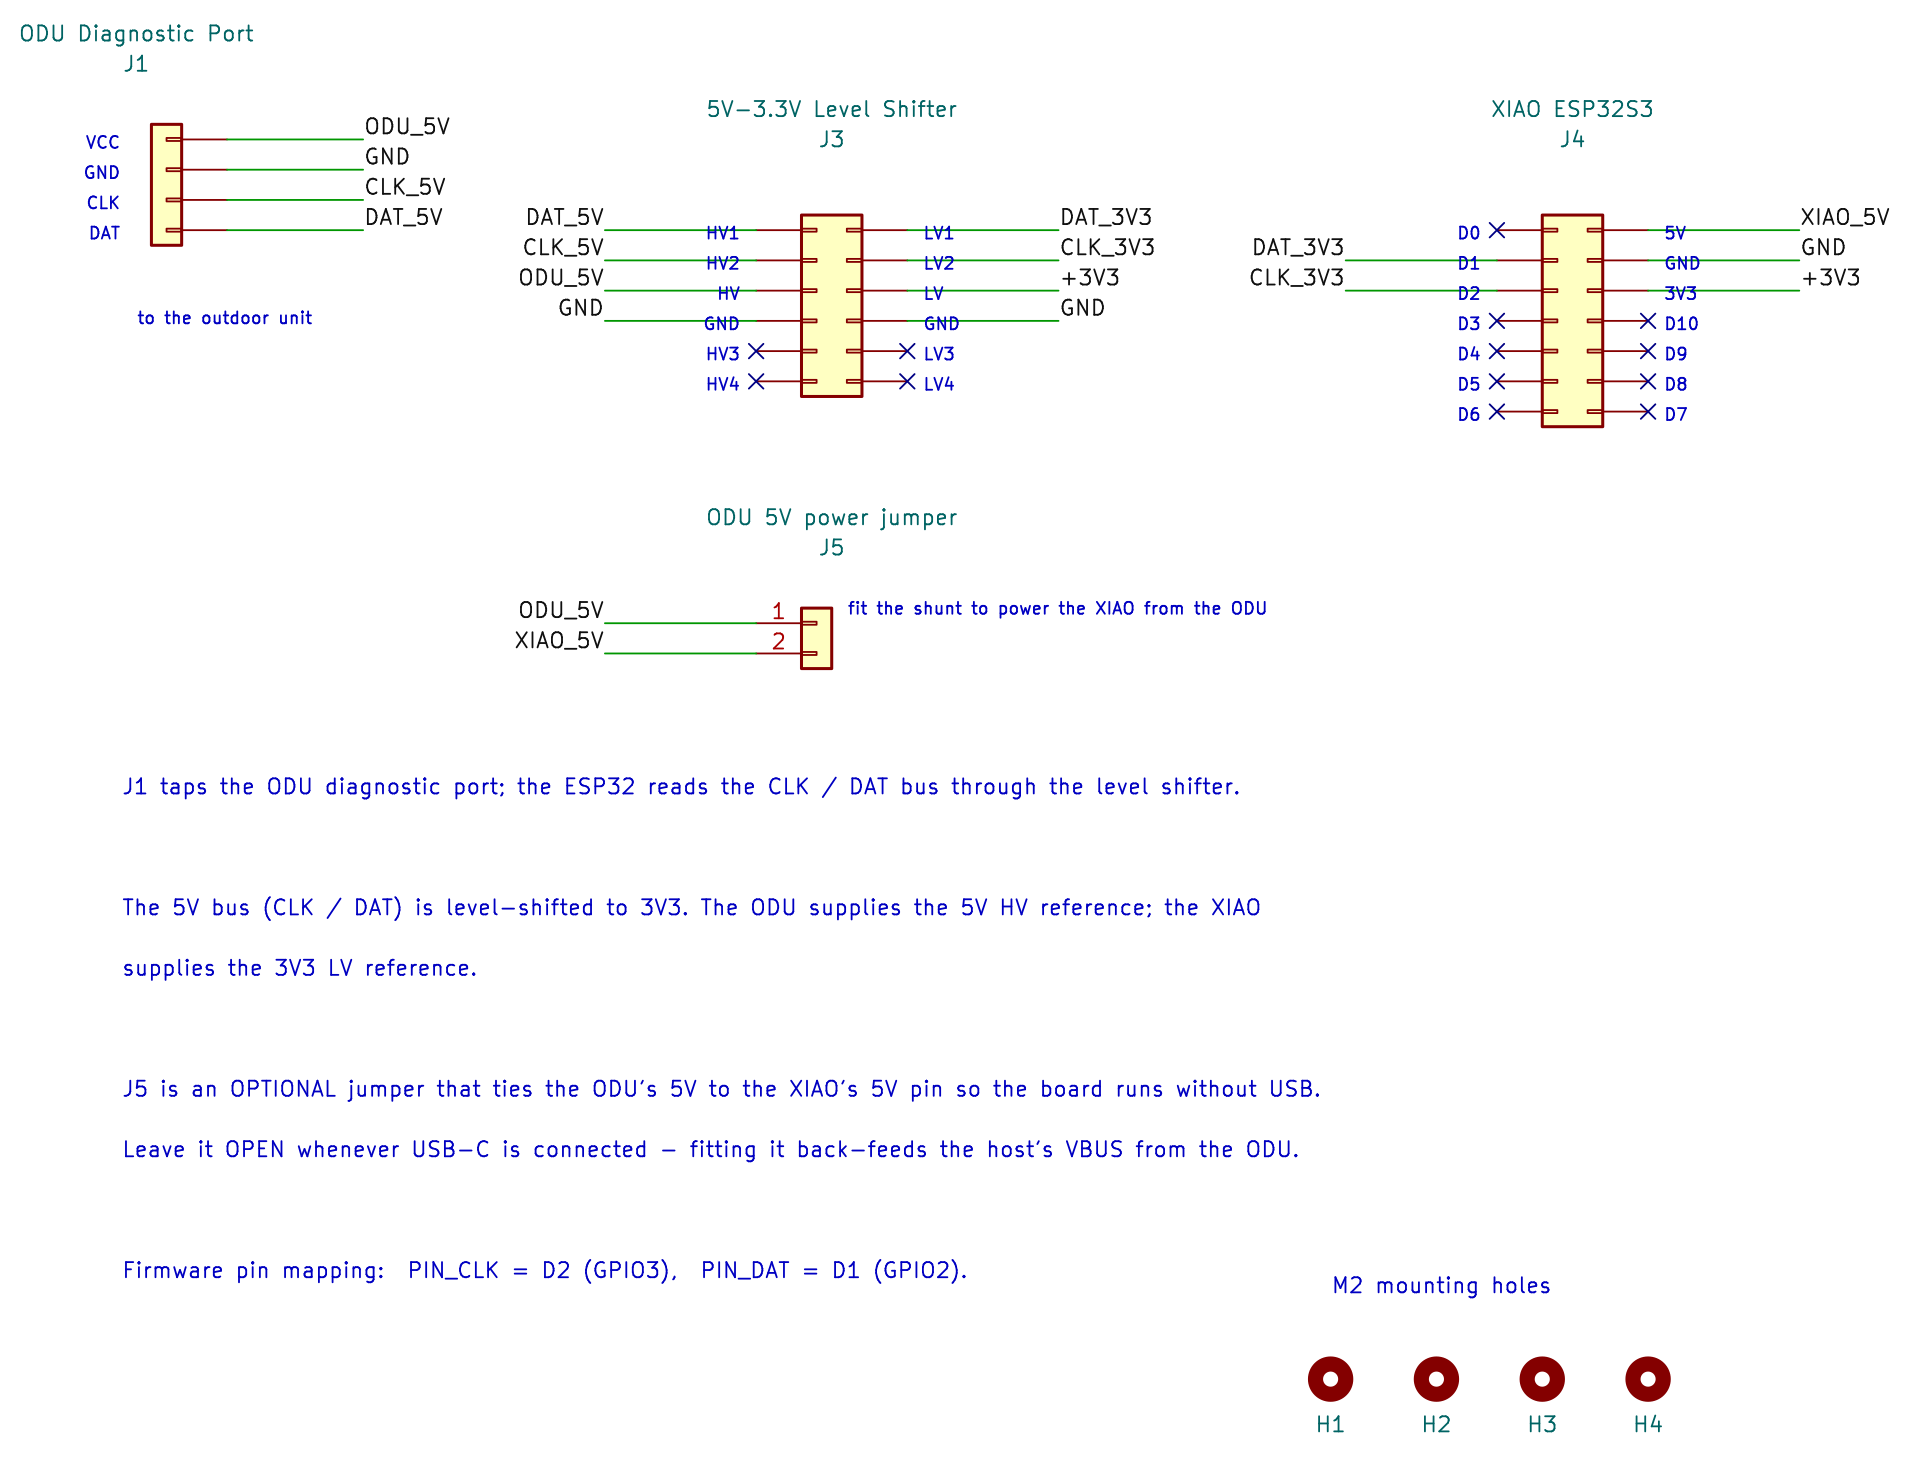
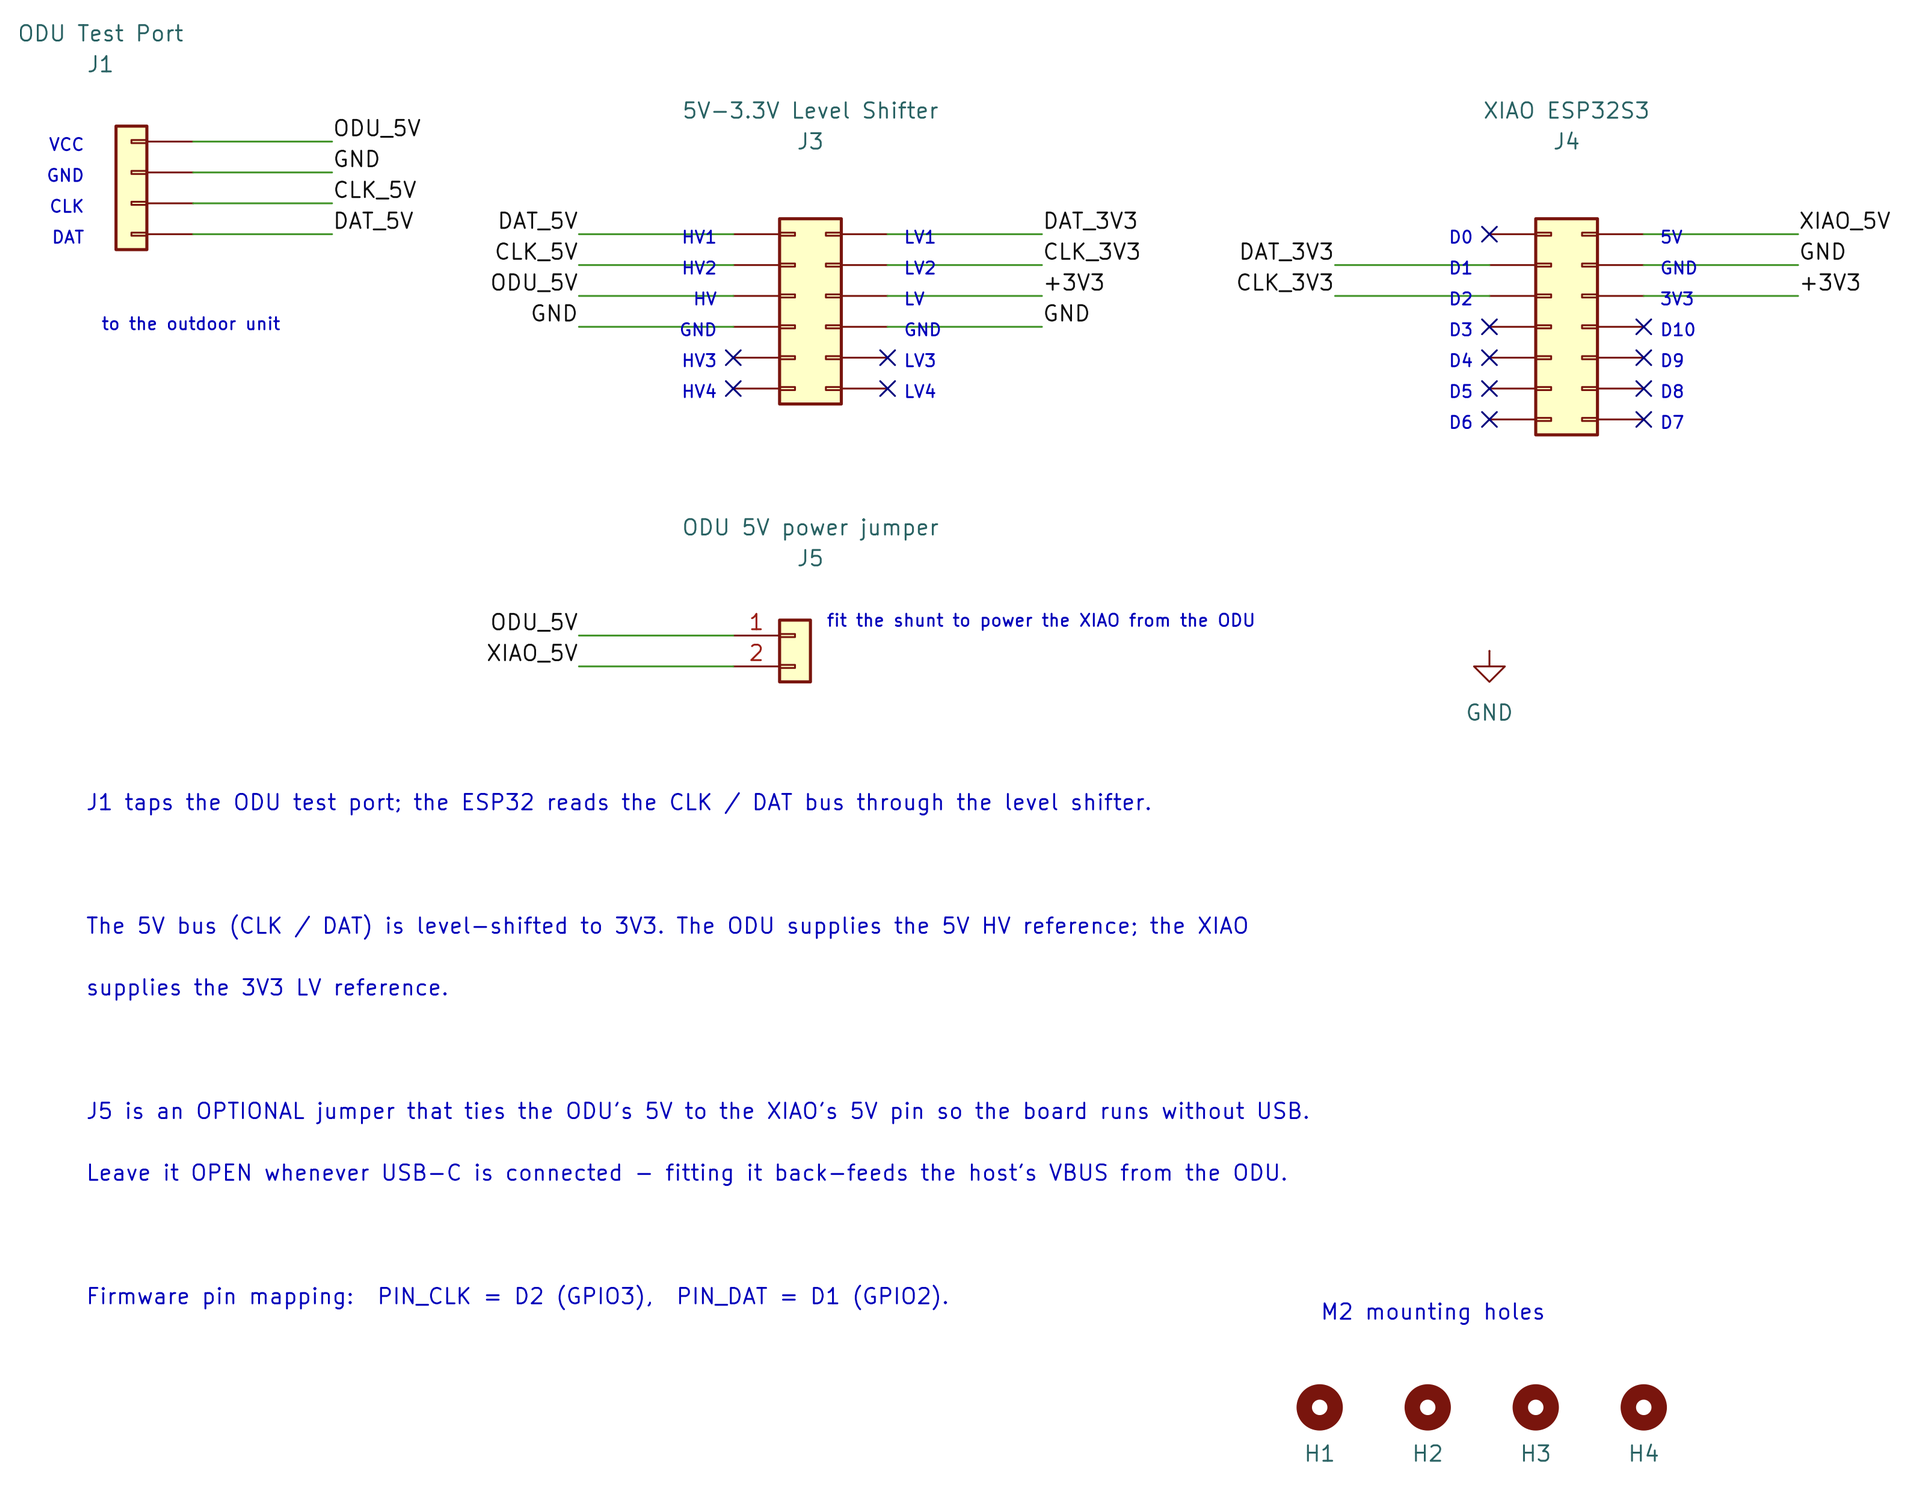
Rename "diagnostic port" to "test port", Midea's name for it (issue #57) (#58)
* Rename "diagnostic port" to "test port", Midea's name for it (issue #57)

Midea calls the outdoor unit's 4-pin service connector the test port:
it is labeled TEST on the control board. The repo called it the
diagnostic port, which matches neither the board nor the service
manuals, and the README said "diagnostic port" and "labeled TEST" in
the same sentence.

Test port now names the connector in README.md, UART-comparison.md
(prose and column header), FRAME-BYTES.md, the MideaTelemetry class
comment, the KiCad schematic (title block, J1 note, J1 value) and the
PCB (J1 value). "Diagnostic bus" wording is rephrased around the test
port too.

Left as is on purpose:
- the Medium article's title "Reverse Engineering Midea's ODU
  Diagnostic Port", where it is quoted, since that is its real title
  and its URL;
- Home Assistant's Diagnostic entity category;
- "the unit's own diagnostic display", which is the display, not the
  port.

J1's PCB value is on F.Fab, which is not part of the rev5 Gerber zip,
so the manufactured board is unchanged. pcb/schematic.png is
regenerated with kicad-cli 10.0.6 (PDF export without drawing sheet or
background) and trimmed to the original's width and margins. It now
also shows a GND power symbol that was already in the schematic source
but missing from the old render.

Checked: git grep -i diagnostic now finds only the three kept uses, and
the export left the KiCad sources untouched apart from the four
intended strings.
[…]

diff --git a/components/midea_telemetry/midea_telemetry.h b/components/midea_telemetry/midea_telemetry.h
@@ -25,7 +25,7 @@ static const size_t NUM_RESPONSE_TYPES = 7;
 static const size_t RAW_BYTE_FIRST = 2;
 static const size_t RAW_BYTE_LAST = 8;
 
-// Drives the two-wire diagnostic bus on the outdoor inverter board the same
+// Drives the two-wire bus on the outdoor inverter board's test port the same
 // way Midea's handheld inverter tester does: 80-bit frames, LSB-first, with
 // the tester (us) driving the clock in both directions. The bit-banging runs
 // in a dedicated FreeRTOS task - a full request/response cycle keeps the bus

diff --git a/README.md b/README.md
@@ -1,6 +1,6 @@
 # midea-telemetry-esphome
 
-An [ESPHome](https://esphome.io/) component to feed diagnostic-port telemetry from Midea mini-splits and centrally ducted units into Home Assistant. No Home Assistant? It works standalone too: the dongle serves its own web dashboard and JSON API, with an optional InfluxDB + Grafana stack for long-term history.
+An [ESPHome](https://esphome.io/) component to feed test-port telemetry from Midea mini-splits and centrally ducted units into Home Assistant. No Home Assistant? It works standalone too: the dongle serves its own web dashboard and JSON API, with an optional InfluxDB + Grafana stack for long-term history.
 
 It supports a variety of brands including MRCOOL, Cooper&Hunter, Pioneer, and Senville.
 
@@ -15,9 +15,9 @@ The dongle has been tested successfully with the following outdoor units:
 | MRCOOL | DIY-12-HP-C-115C25 |
 | Cooper&Hunter | CH-HPR06F9-230VO, CH-N36LCU-230VO |
 
-Since Midea-made mini-splits and centrally ducted units are very similar across brands, many other units from brands like MRCOOL, Cooper&Hunter, Senville, Pioneer, Blueridge, etc. are supported as well. Check your unit's wiring diagram, or look for a diagnostic port (4-pin JST connector labeled `TEST`) on the control board itself, to confirm.
+Since Midea-made mini-splits and centrally ducted units are very similar across brands, many other units from brands like MRCOOL, Cooper&Hunter, Senville, Pioneer, Blueridge, etc. are supported as well. To confirm, look for a test port (a 4-pin JST connector labeled `TEST`) on your unit's wiring diagram or on the outdoor unit's control board.
 
-**Note**: I haven't had a chance to analyze the diagnostic bus on a multi-head unit yet. Supporting these units will likely require firmware enhancements beyond what's currently implemented.
+**Note**: I haven't had a chance to analyze the test port on a multi-head unit yet. Supporting these units will likely require firmware enhancements beyond what's currently implemented.
 
 ## Hardware
 
@@ -46,7 +46,7 @@ The KiCad project, schematic, and Gerber files live in [pcb/](pcb/) - a 2-layer 
 | ![Prototype](images/prototype.jpg) | ![Enclosure](images/enclosure.png) |
 
 
-I've added a jumper that ties the diagnostic port's +5V to the XIAO's 5V pin. Use the jumper to run the board straight off the ODU with no USB cable. Leave it off if the board is connected to USB. I also recommend the use of a USB isolator since ground on the diagnostic port is not referenced to earth.
+I've added a jumper that ties the test port's +5V to the XIAO's 5V pin. Use the jumper to run the board straight off the ODU with no USB cable. Leave it off if the board is connected to USB. I also recommend the use of a USB isolator since ground on the test port is not referenced to earth.
 
 ## Safety
 
@@ -62,9 +62,9 @@ before performing the installation. Wear appropriate PPE. Consult a qualified el
 
 *(See [Safety](#safety) first if you're jumping straight to this section.)*
 
-Remove the top panel of the ODU. You'll see the control board. Remove the screws securing the control board to the ODU, then detach the cables from the cable clamps so you can lift the board for access — there's no need to unplug the cables themselves. The diagnostic port on my units is located at the front of the board. Plug in the dongle, with the red wire facing toward you. Reattach the cables to the cable clamps and secure the board back to the ODU. There should be enough clearance to tuck the dongle into the service panel — this lets you access the dongle later without needing to remove the control board again. Reinstall the top panel.
+Remove the top panel of the ODU. You'll see the control board. Remove the screws securing the control board to the ODU, then detach the cables from the cable clamps so you can lift the board for access — there's no need to unplug the cables themselves. The test port on my units is located at the front of the board. Plug in the dongle, with the red wire facing toward you. Reattach the cables to the cable clamps and secure the board back to the ODU. There should be enough clearance to tuck the dongle into the service panel — this lets you access the dongle later without needing to remove the control board again. Reinstall the top panel.
 
-| Control board | Diagnostic port |
+| Control board | Test port |
 | --- | --- |
 | ![Install 1/4](images/install-1.png) | ![Install 2/4](images/install-2.png) |
 
@@ -229,7 +229,7 @@ For a permanent, Home-Assistant-independent history, [`influxdb-grafana/`](influ
 
 ## Prior Art
 
-I've documented the diagnostic bus protocol in great detail on Medium: [Reverse Engineering Midea's ODU Diagnostic Port](https://medium.com/@florian.mckee/reverse-engineering-mideas-odu-diagnostic-port-af603e159053). The firmware in this repository is based on those findings. Start there if you want to understand the protocol; the byte mappings and conversion formulas in the [Supported Sensors](#supported-sensors) table come straight from it.
+I've documented the test-port protocol in great detail on Medium: [Reverse Engineering Midea's ODU Diagnostic Port](https://medium.com/@florian.mckee/reverse-engineering-mideas-odu-diagnostic-port-af603e159053). The firmware in this repository is based on those findings. Start there if you want to understand the protocol; the byte mappings and conversion formulas in the [Supported Sensors](#supported-sensors) table come straight from it.
 
 ## Warranty
 

diff --git a/UART-comparison.md b/UART-comparison.md
@@ -2,9 +2,9 @@
 
 The [Midea AC LAN](https://github.com/wuwentao/midea_ac_lan) integration sources a partially overlapping set of sensor data from the UART port located in the IDU. Tested using a MRCOOL DIY 12K 4th Gen 115V and the dongle that ships with a Midea U.
 
-The UART port is more easily accessible than the diagnostic port on the ODU, which makes it attractive. Unfortunately, the data that is available seems to be highly model-dependent and too spotty to pursue this route further:
+The UART port is more easily accessible than the test port on the ODU, which makes it attractive. Unfortunately, the data that is available seems to be highly model-dependent and too spotty to pursue this route further:
 
-| Sensor | Diagnostic Port | UART | Comment |
+| Sensor | Test Port | UART | Comment |
 |---|---|---|---|
 | `indoor_ambient_temperature`  | ✅ | ✅ | |
 | `indoor_coil_temperature`     | ✅ | ✅ | |

diff --git a/FRAME-BYTES.md b/FRAME-BYTES.md
@@ -1,6 +1,6 @@
 # Frame bytes
 
-What every byte of every diagnostic-bus message means, as far as it is known, and how the decoded
+What every byte of every test-port message means, as far as it is known, and how the decoded
 ones are converted. The [Supported Sensors](README.md#supported-sensors) table in the README only
 lists the sensors. Look here for which bytes a sensor comes from, or what an unmapped byte like
 `0x03[4]` might be.
